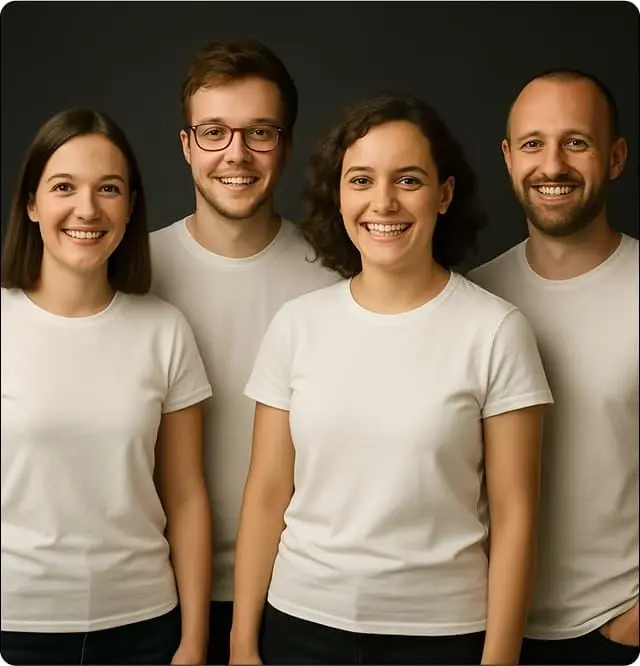
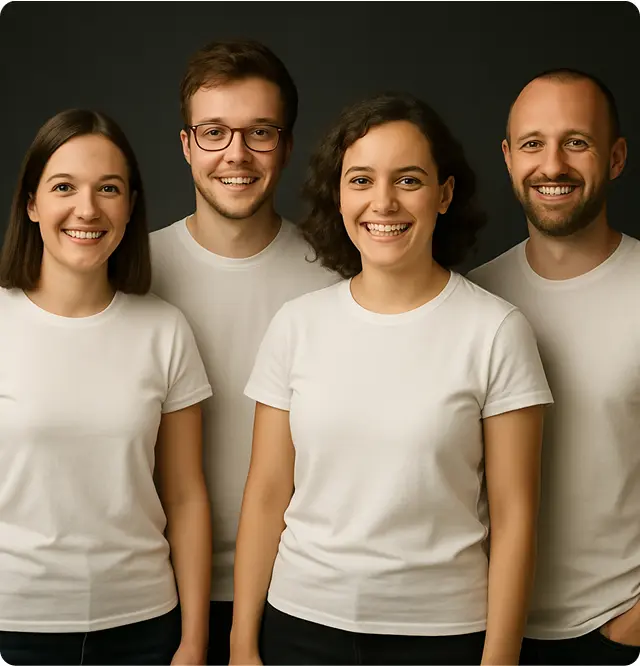
about add picture

diff --git a/src/partials/about-us.html b/src/partials/about-us.html
@@ -1,11 +1,33 @@
 <section class="about" id="idAbout" style="scroll-margin-top: 60px">
   <div class="about__container container">
     <div class="about__image">
-      <img
+      <picture>
+        <source
+          srcset="./img/team-mobile.webp 1x, ./img/team-mobile@2x.webp 2x"
+          media="(max-width: 767px)"
+          width="280"
+          height="169"
+        />
+        <source
+          srcset="./img/team-tablet.webp 1x, ./img/team-tablet@2x.webp 2x"
+          media="(max-width: 1439px)"
+          width="704"
+          height="414"
+        />
+        <img
+          srcset="./img/team.webp 1x, ./img/team@2x.webp 2x"
+          src="./img/team.webp"
+          alt="ArtistsHub Team"
+          width="640"
+          height="666"
+          class="made-img"
+        />
+      </picture>
+      <!-- <img
         src="/img/team.webp"
         srcset="/img/team@2x.webp"
         alt="ArtistsHub Team"
-      />
+      /> -->
     </div>
     <div class="about__content">
       <div class="about__icon">
